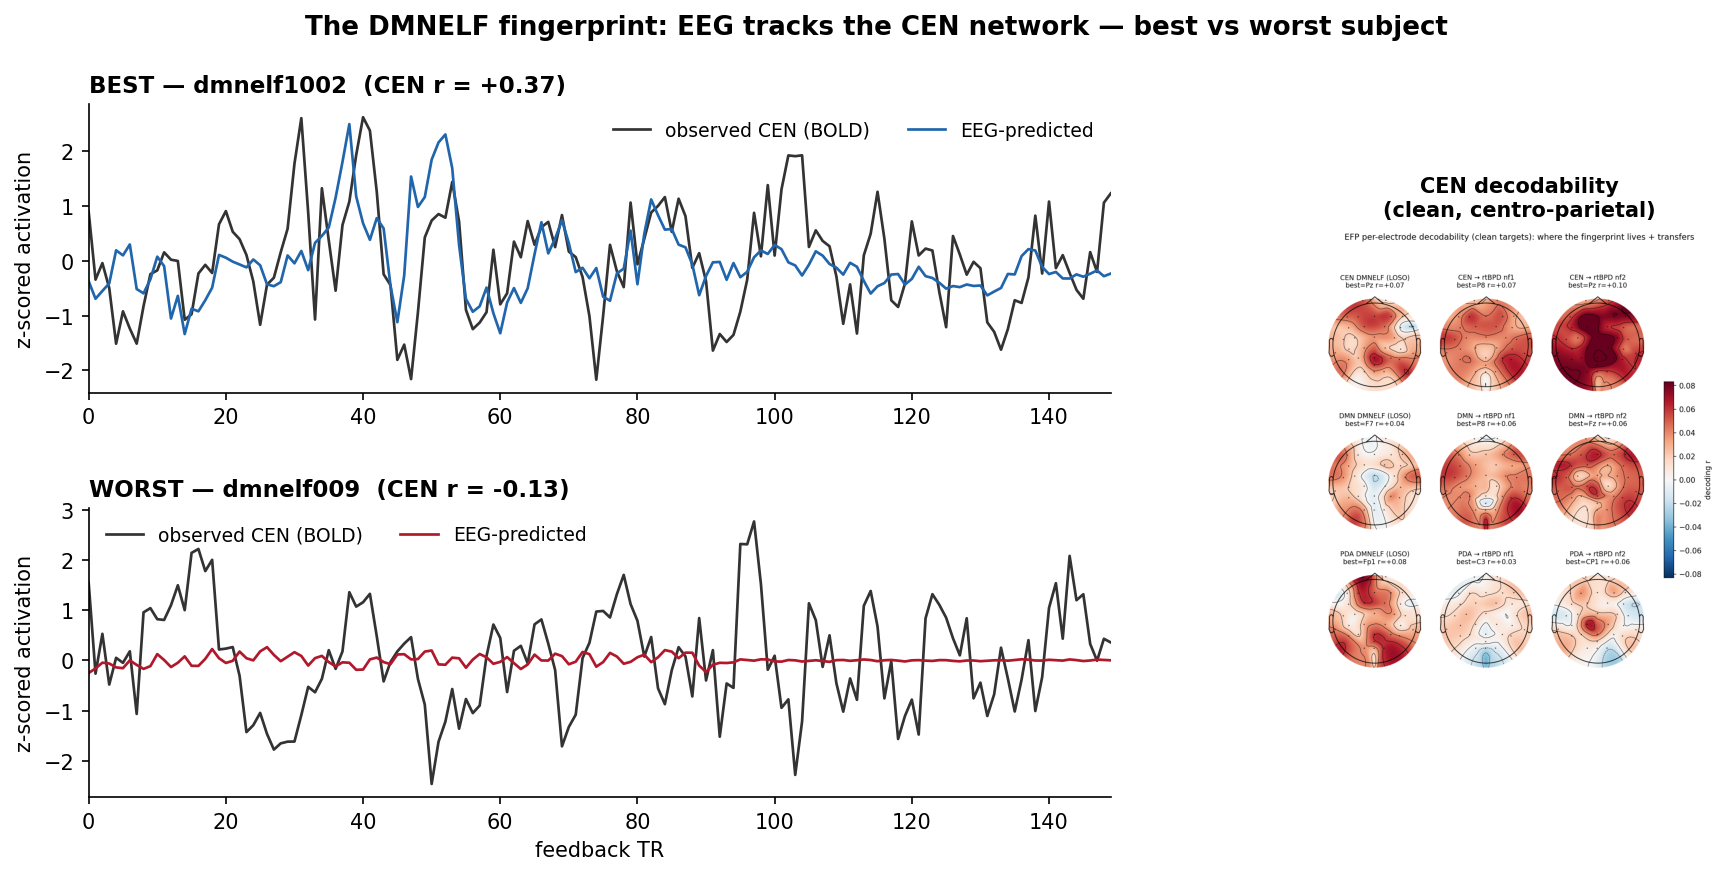
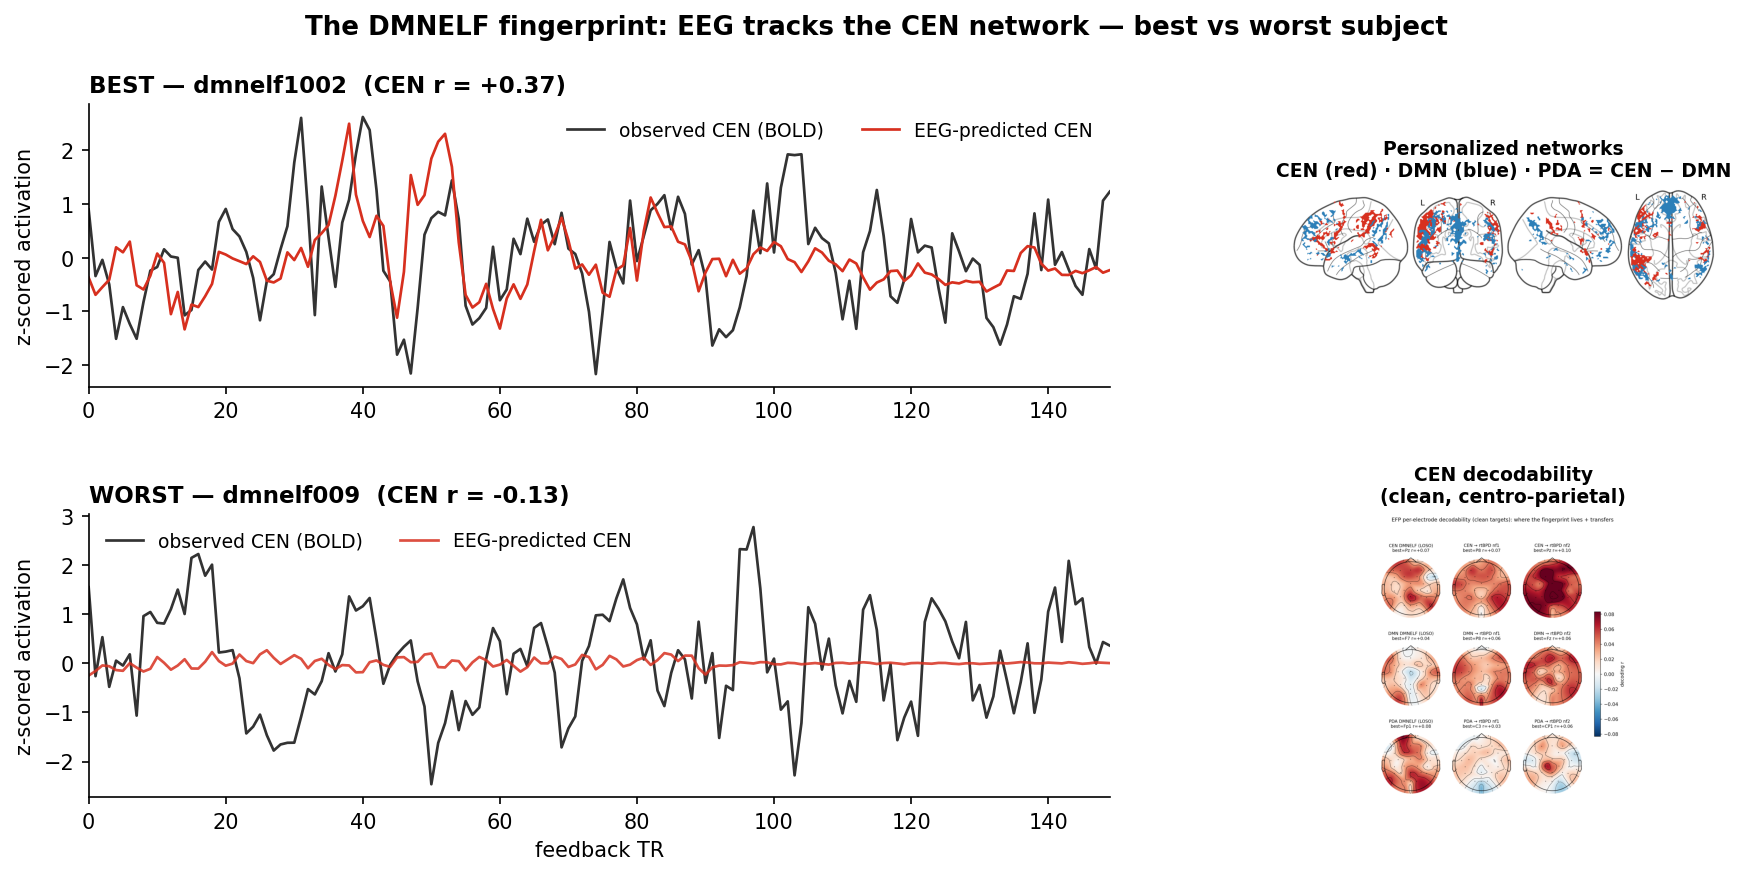
manuscript: add Figure 0 (overview schematic) + complete Figure 3 (mask render); harmonize CEN=red/DMN=blue
- Fig 0: 4-stage overview schematic (target -> sim EEG-fMRI -> frozen EFP decoder ->
  portable deployment), grounded in the Prisma protocols (3T, TR 1.2s, 2mm, MB4;
  DMNELF 4x101 vol / rtBPD 5x150 vol).
- Fig 3: added personalized DMN/CEN glass-brain mask render (nilearn) for dmnelf1002
  alongside best/worst predicted-vs-observed CEN timeseries + decodability topography.
- Harmonized network color convention CEN=red / DMN=blue (PDA green) across mask render,
  timeseries (predicted CEN red), and data-figure bars (fig4/6) + calibration ladder.

diff --git a/analysis/fingerprint/manuscript/scripts/fig0_overview.py b/analysis/fingerprint/manuscript/scripts/fig0_overview.py
@@ -1,0 +1,104 @@
+#!/usr/bin/env python3
+"""
+fig0_overview.py  —  Figure 0: study overview schematic
+-------------------------------------------------------
+Conceptual 4-stage flow: (1) the DMN-CEN neurofeedback target (PDA), (2) simultaneous
+EEG-fMRI acquisition + paradigm (parameters from the Prisma protocols), (3) the frozen
+EFP decoder fMRI->EEG, (4) portable deployment. Pure schematic (no data). Author may
+replace with polished artwork; this is the draft.
+Output: manuscript/figures/fig0_overview.png
+"""
+from pathlib import Path
+import numpy as np
+import matplotlib
+matplotlib.use("Agg")
+import matplotlib.pyplot as plt
+from matplotlib.patches import FancyBboxPatch, FancyArrowPatch, Circle, Rectangle, Ellipse
+
+FIG = Path(__file__).resolve().parent.parent / "figures"
+CEN_C, DMN_C = "#d7301f", "#2c7fb8"   # CEN red, DMN blue
+INK = "#222222"
+plt.rcParams.update({"font.size": 10})
+
+
+def panel(ax, x, w, title, sub):
+    ax.add_patch(FancyBboxPatch((x, 0.06), w, 0.82, boxstyle="round,pad=0.008,rounding_size=0.02",
+                                lw=1.2, ec="#888", fc="#fafafa", transform=ax.transAxes))
+    ax.text(x + w / 2, 0.925, title, ha="center", va="center", weight="bold", fontsize=11,
+            transform=ax.transAxes)
+    ax.text(x + w / 2, 0.10, sub, ha="center", va="bottom", fontsize=7.4, color="#555",
+            transform=ax.transAxes, wrap=True)
+
+
+def arrow(ax, x0, x1, y=0.48):
+    ax.add_patch(FancyArrowPatch((x0, y), (x1, y), transform=ax.transAxes,
+                                 arrowstyle="-|>", mutation_scale=18, lw=2, color="#444"))
+
+
+def main():
+    fig, ax = plt.subplots(figsize=(15, 4.3)); ax.axis("off")
+    W, G = 0.225, 0.033
+    xs = [0.01 + i * (W + G) for i in range(4)]
+
+    # ── 1. Target ──
+    panel(ax, xs[0], W, "1 · The neurofeedback target",
+          "Auditory hallucinations (schizophrenia) &\nborderline traits → DMN–CEN imbalance.\n"
+          "rt-fMRI neurofeedback up-regulates PDA.")
+    cx = xs[0] + W / 2
+    ax.add_patch(Circle((cx - 0.035, 0.55), 0.055, fc=CEN_C, ec="none", alpha=0.75, transform=ax.transAxes))
+    ax.add_patch(Circle((cx + 0.035, 0.55), 0.055, fc=DMN_C, ec="none", alpha=0.75, transform=ax.transAxes))
+    ax.text(cx - 0.055, 0.55, "CEN", ha="center", va="center", color="w", weight="bold", fontsize=8, transform=ax.transAxes)
+    ax.text(cx + 0.055, 0.55, "DMN", ha="center", va="center", color="w", weight="bold", fontsize=8, transform=ax.transAxes)
+    ax.text(cx, 0.40, "PDA = CEN − DMN  ↑", ha="center", va="center", weight="bold", fontsize=9.5, transform=ax.transAxes)
+
+    # ── 2. Acquisition ──
+    panel(ax, xs[1], W, "2 · Simultaneous EEG–fMRI",
+          "3T Prisma · 31-ch MR-EEG cap · TR 1.2 s · 2 mm · MB4.\n"
+          "Feedback: 30 s rest → continuous PDA.\n"
+          "DMNELF 4×101 vol · rtBPD 5×150 vol.")
+    hx = xs[1] + W / 2
+    ax.add_patch(Circle((hx, 0.60), 0.062, fc="#eee", ec=INK, lw=1.3, transform=ax.transAxes))     # head
+    rng = np.random.default_rng(0)
+    for _ in range(22):                                                                             # cap electrodes
+        a = rng.uniform(0, 2 * np.pi); r = rng.uniform(0, 0.05)
+        ax.add_patch(Circle((hx + r * np.cos(a), 0.60 + r * np.sin(a) * 0.9), 0.004, fc="#2c7fb8", ec="none", transform=ax.transAxes))
+    # paradigm timeline
+    ax.add_patch(Rectangle((hx - 0.075, 0.30), 0.03, 0.05, fc="#cccccc", ec=INK, lw=.8, transform=ax.transAxes))
+    ax.add_patch(Rectangle((hx - 0.045, 0.30), 0.12, 0.05, fc="#9ecae1", ec=INK, lw=.8, transform=ax.transAxes))
+    ax.text(hx - 0.06, 0.275, "rest", ha="center", va="top", fontsize=6.5, transform=ax.transAxes)
+    ax.text(hx + 0.015, 0.275, "PDA feedback", ha="center", va="top", fontsize=6.5, transform=ax.transAxes)
+
+    # ── 3. Decoder ──
+    panel(ax, xs[2], W, "3 · Frozen EFP decoder",
+          "Single-electrode Stockwell 10-band ×\nHRF-delay → ridge → BOLD network.\n"
+          "Motion-controlled, LORO. CEN r ≈ 0.10.")
+    dx = xs[2] + W / 2
+    t = np.linspace(0, 1, 200)
+    ax.plot(dx - 0.09 + 0.05 * t, 0.60 + 0.02 * np.sin(40 * t), color=INK, lw=0.7, transform=ax.transAxes)
+    ax.add_patch(FancyBboxPatch((dx - 0.03, 0.545), 0.075, 0.11, boxstyle="round,pad=0.004",
+                                fc="#e8eef5", ec=CEN_C, lw=1.2, transform=ax.transAxes))
+    ax.text(dx + 0.0075, 0.60, "band ×\ndelay\nridge", ha="center", va="center", fontsize=6.8, transform=ax.transAxes)
+    ax.plot(dx + 0.055 + 0.04 * t, 0.60 + 0.025 * np.sin(8 * t), color=CEN_C, lw=1.3, transform=ax.transAxes)
+    ax.text(dx, 0.44, "EEG  →  predicted CEN/DMN → PDA", ha="center", va="center", fontsize=7.5, transform=ax.transAxes)
+
+    # ── 4. Deployment ──
+    panel(ax, xs[3], W, "4 · Portable deployment",
+          "Frozen decoder → consumer EEG (EPOC-X)\noutside the scanner. ~92% of CEN retained.\n"
+          "Personalized / 1-run calibrated.")
+    px = xs[3] + W / 2
+    ax.add_patch(Circle((px, 0.60), 0.05, fc="#eee", ec=INK, lw=1.3, transform=ax.transAxes))
+    ax.add_patch(Ellipse((px, 0.635), 0.108, 0.055, angle=0, fill=False, ec="#41ab5d", lw=2.4, transform=ax.transAxes))  # headset band
+    ax.add_patch(Circle((px - 0.052, 0.605), 0.008, fc="#41ab5d", ec="none", transform=ax.transAxes))
+    ax.add_patch(Circle((px + 0.052, 0.605), 0.008, fc="#41ab5d", ec="none", transform=ax.transAxes))
+    ax.text(px, 0.40, "scalable EEG neurofeedback", ha="center", va="center", fontsize=8, style="italic", transform=ax.transAxes)
+
+    for i in range(3):
+        arrow(ax, xs[i] + W + 0.002, xs[i + 1] - 0.002)
+    fig.suptitle("A portable, personalized EEG decoder of a DMN–executive neurofeedback target",
+                 fontsize=12.5, weight="bold", y=1.02)
+    fig.savefig(FIG / "fig0_overview.png", bbox_inches="tight", dpi=150)
+    plt.close(fig); print("wrote fig0")
+
+
+if __name__ == "__main__":
+    main()

diff --git a/analysis/fingerprint/manuscript/scripts/fig123_signals.py b/analysis/fingerprint/manuscript/scripts/fig123_signals.py
@@ -136,7 +136,7 @@ def fig2():
     axE = fig.add_subplot(gs[4])
     o, p = z["obs_CEN"][:120], z["pred_CEN"][:120]
     axE.plot(o, color="#333333", lw=1.2, label="observed CEN")
-    axE.plot(p, color="#2166ac", lw=1.2, label="predicted")
+    axE.plot(p, color="#d7301f", lw=1.2, label="predicted")
     axE.set_title(f"E  prediction\n(CEN r={float(z['r_CEN']):.2f})", loc="left", fontsize=9.5, weight="bold")
     axE.set_xlabel("TR"); axE.legend(frameon=False, fontsize=8)
     fig.suptitle("The EEG fingerprint (EFP) decoding method", fontsize=12, weight="bold", y=1.06)
@@ -144,28 +144,51 @@ def fig2():
     plt.close(fig); print("wrote fig2")
 
 
-# ───────────────────────── Figure 3: best vs worst timeseries ─────────────────────────
+# ───────────────────────── Figure 3: masks + best vs worst timeseries ─────────────────────────
+def render_masks():
+    """Personalized DMN (orange) + CEN (blue) masks on a glass brain -> assets/mask_render.png."""
+    out = A / "mask_render.png"
+    dmn, cen = A / f"{BEST}_dmn_mask.nii.gz", A / f"{BEST}_cen_mask.nii.gz"
+    if out.exists() or not (dmn.exists() and cen.exists()):
+        return out if out.exists() else None
+    from nilearn import plotting
+    disp = plotting.plot_glass_brain(None, display_mode="lyrz", figure=plt.figure(figsize=(9, 2.4)))
+    disp.add_contours(str(cen), colors=["#d7301f"], filled=True, alpha=0.55, linewidths=0.8)   # CEN red
+    disp.add_contours(str(dmn), colors=["#2c7fb8"], filled=True, alpha=0.55, linewidths=0.8)   # DMN blue
+    disp.savefig(str(out), dpi=150); disp.close()
+    return out
+
+
 def fig3():
     zb = np.load(A / f"efp_{BEST}.npz", allow_pickle=True)
     zw = np.load(A / f"efp_{WORST}.npz", allow_pickle=True)
+    mask_png = render_masks()
     fig = plt.figure(figsize=(14, 6))
-    gs = fig.add_gridspec(2, 2, width_ratios=[2.6, 1], hspace=0.4, wspace=0.3)
+    gs = fig.add_gridspec(2, 2, width_ratios=[2.4, 1], hspace=0.45, wspace=0.25)
     for i, (z, role) in enumerate([(zb, "best"), (zw, "worst")]):
         ax = fig.add_subplot(gs[i, 0])
         o, p = z["obs_CEN"][:150], z["pred_CEN"][:150]
         ax.plot(o, color="#333333", lw=1.3, label="observed CEN (BOLD)")
-        ax.plot(p, color="#2166ac" if i == 0 else "#b2182b", lw=1.3, label="EEG-predicted")
-        ax.set_title(f"{role.upper()} — {z['subject']}  (CEN r = {float(z['r_CEN']):+.2f})",
+        ax.plot(p, color="#d7301f", lw=1.3, alpha=1.0 if i == 0 else 0.85, label="EEG-predicted CEN")
+        ax.set_title(f"{'BEST' if i==0 else 'WORST'} — {z['subject']}  (CEN r = {float(z['r_CEN']):+.2f})",
                      loc="left", fontsize=11, weight="bold")
         ax.set_ylabel("z-scored activation"); ax.margins(x=0); ax.legend(frameon=False, fontsize=9, ncol=2)
         if i == 1:
             ax.set_xlabel("feedback TR")
-    # right: scalp topography of CEN decodability (reuse committed clean topomap)
-    axt = fig.add_subplot(gs[:, 1])
+    # A: personalized masks (DMN orange / CEN blue) + PDA definition
+    axm = fig.add_subplot(gs[0, 1])
+    if mask_png and mask_png.exists():
+        axm.imshow(plt.imread(mask_png)); axm.axis("off")
+        axm.set_title("Personalized networks\nCEN (red) · DMN (blue) · PDA = CEN − DMN",
+                      fontsize=9, weight="bold")
+    else:
+        axm.axis("off")
+    # B: scalp topography of CEN decodability (committed clean topomap)
+    axt = fig.add_subplot(gs[1, 1])
     topo = FIG.parent.parent / "efp_meirhasson" / "results" / "efp_topomap.png"
     if topo.exists():
         axt.imshow(plt.imread(topo)); axt.axis("off")
-        axt.set_title("CEN decodability\n(clean, centro-parietal)", fontsize=10, weight="bold")
+        axt.set_title("CEN decodability\n(clean, centro-parietal)", fontsize=9, weight="bold")
     else:
         axt.axis("off")
     fig.suptitle("The DMNELF fingerprint: EEG tracks the CEN network — best vs worst subject",

diff --git a/analysis/fingerprint/manuscript/scripts/paper_figures_honest.py b/analysis/fingerprint/manuscript/scripts/paper_figures_honest.py
@@ -19,7 +19,7 @@ EFP = FP / "efp_meirhasson" / "results"
 FS = FP / "fsnr_eeg" / "results"
 OUT = FP / "manuscript" / "figures"; OUT.mkdir(parents=True, exist_ok=True)
 RNG = np.random.default_rng(0)
-C = {"CEN": "#2c7fb8", "DMN": "#d95f0e", "PDA": "#31a354"}
+C = {"CEN": "#d7301f", "DMN": "#2c7fb8", "PDA": "#31a354"}   # CEN red, DMN blue, PDA green
 COH = [("DMNELF (SZ)", "cen_clean"), ("rtBPD nf1", "cen_clean_rt_nf1_clean"),
        ("rtBPD nf2", "cen_clean_rt_nf2_clean")]
 plt.rcParams.update({"font.size": 11, "axes.spines.top": False, "axes.spines.right": False,
@@ -63,7 +63,7 @@ def fig4():
 
     cal = pd.read_csv(EFP / "efp_calibrate_mv.csv")
     order = ["transfer", "dmnelf+cal1", "within_loro"]; lab = ["0-shot\ntransfer", "+1-run\ncalibration", "within-\nsubject"]
-    for sess, mk, col in [("nf1", "o", "#2c7fb8"), ("nf2", "s", "#762a83")]:
+    for sess, mk, col in [("nf1", "o", "#d7301f"), ("nf2", "s", "#fc8d59")]:   # CEN red family, by shade
         ys = [cal[(cal.session == sess) & (cal.target == "CEN") & (cal.scheme == s)].r.mean() for s in order]
         axB.plot(range(3), ys, mk + "-", color=col, label=f"CEN {sess}", lw=2, ms=7)
     axB.set_xticks(range(3)); axB.set_xticklabels(lab); axB.axhline(0, color="k", lw=.6)
@@ -106,7 +106,7 @@ def fig6():
     # B: controls fail (CEN readout by method) — committed honest values
     methods = ["EFP\n(linear)", "deep\n(R-EEGNet)", "frontal\ntheta/FTA", "f-SNR"]
     cen_by = [grp(d, "CEN", "clean", "all")[0], 0.004, 0.005, 0.012]   # deep/theta/fsnr: committed nulls
-    cols = ["#2c7fb8", "#bbbbbb", "#bbbbbb", "#bbbbbb"]
+    cols = ["#d7301f", "#bbbbbb", "#bbbbbb", "#bbbbbb"]   # EFP (CEN) red; controls grey
     axs[1].bar(range(4), cen_by, color=cols)
     axs[1].axhline(0, color="k", lw=.6); axs[1].set_xticks(range(4)); axs[1].set_xticklabels(methods, fontsize=9)
     axs[1].set_ylabel("CEN decoding  r"); axs[1].set_title("B  Only the linear decoder works",
